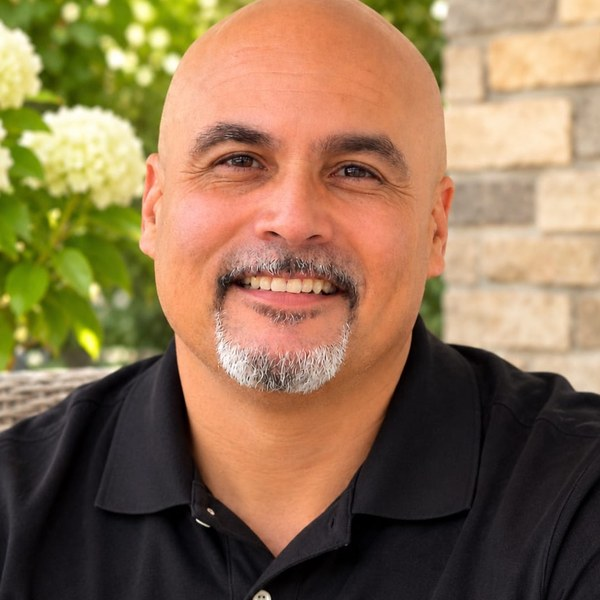
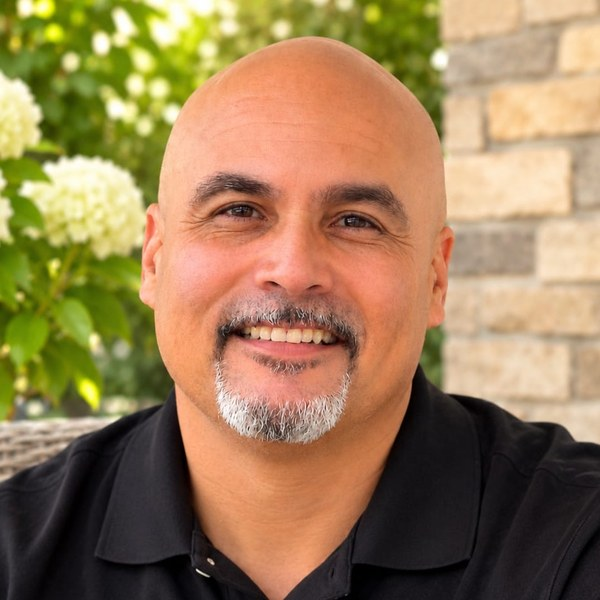
About: lower Ismael in his photo so his head isn't cut off
Claude-Session: https://claude.ai/code/session_01YXHXMRuwfuFx1RTxhNLRGp

diff --git a/about.html b/about.html
@@ -141,7 +141,7 @@ a{color:#2F4858}a:hover{color:#1E3240}
     <div style="display: grid; grid-template-columns: repeat(auto-fit, minmax(260px, 1fr)); gap: 24px">
             <div style="display: flex; flex-direction: column; gap: 10px"><img src="assets/pastor-dan.jpg?v=3" alt="Pastor Dan Nuñez" width="600" height="600" loading="lazy" style="width: 100%; height: auto; aspect-ratio: 1 / 1; object-fit: cover; border-radius: 14px; display: block"><span style="font-family: 'Libre Baskerville', serif; font-size: 20px; font-weight: 700">Dan Nuñez</span><span style="font-size: 16px; color: #4F6676">Connection Pastor</span><span style="font-size: 15px; line-height: 1.5; color: #3B5566">Oversees Fellowship, Evangelism &amp; Missions and Community Transformation</span></div>
       <div style="display: flex; flex-direction: column; gap: 10px"><img src="assets/pastor-tricia.jpg?v=7" alt="Pastor Tricia Persram" width="600" height="600" loading="lazy" style="width: 100%; height: auto; aspect-ratio: 1 / 1; object-fit: cover; border-radius: 14px; display: block"><span style="font-family: 'Libre Baskerville', serif; font-size: 20px; font-weight: 700">Tricia Persram</span><span style="font-size: 16px; color: #4F6676">Family Care Pastor</span><span style="font-size: 15px; line-height: 1.5; color: #3B5566">Oversees Children, Youth &amp; Next Generation and Care &amp; Compassion</span></div>
-      <div style="display: flex; flex-direction: column; gap: 10px"><img src="assets/admin-ismael.jpg?v=6" alt="Ismael Adorno, Church Administrator" width="600" height="600" loading="lazy" style="width: 100%; height: auto; aspect-ratio: 1 / 1; object-fit: cover; border-radius: 14px; display: block"><span style="font-family: 'Libre Baskerville', serif; font-size: 20px; font-weight: 700">Ismael Adorno</span><span style="font-size: 16px; color: #4F6676">Church Administrator</span><span style="font-size: 15px; line-height: 1.5; color: #3B5566">Supports our pastors and the church family through church operations and administration</span></div>
+      <div style="display: flex; flex-direction: column; gap: 10px"><img src="assets/admin-ismael.jpg?v=7" alt="Ismael Adorno, Church Administrator" width="600" height="600" loading="lazy" style="width: 100%; height: auto; aspect-ratio: 1 / 1; object-fit: cover; border-radius: 14px; display: block"><span style="font-family: 'Libre Baskerville', serif; font-size: 20px; font-weight: 700">Ismael Adorno</span><span style="font-size: 16px; color: #4F6676">Church Administrator</span><span style="font-size: 15px; line-height: 1.5; color: #3B5566">Supports our pastors and the church family through church operations and administration</span></div>
     </div>
   </section>
 
